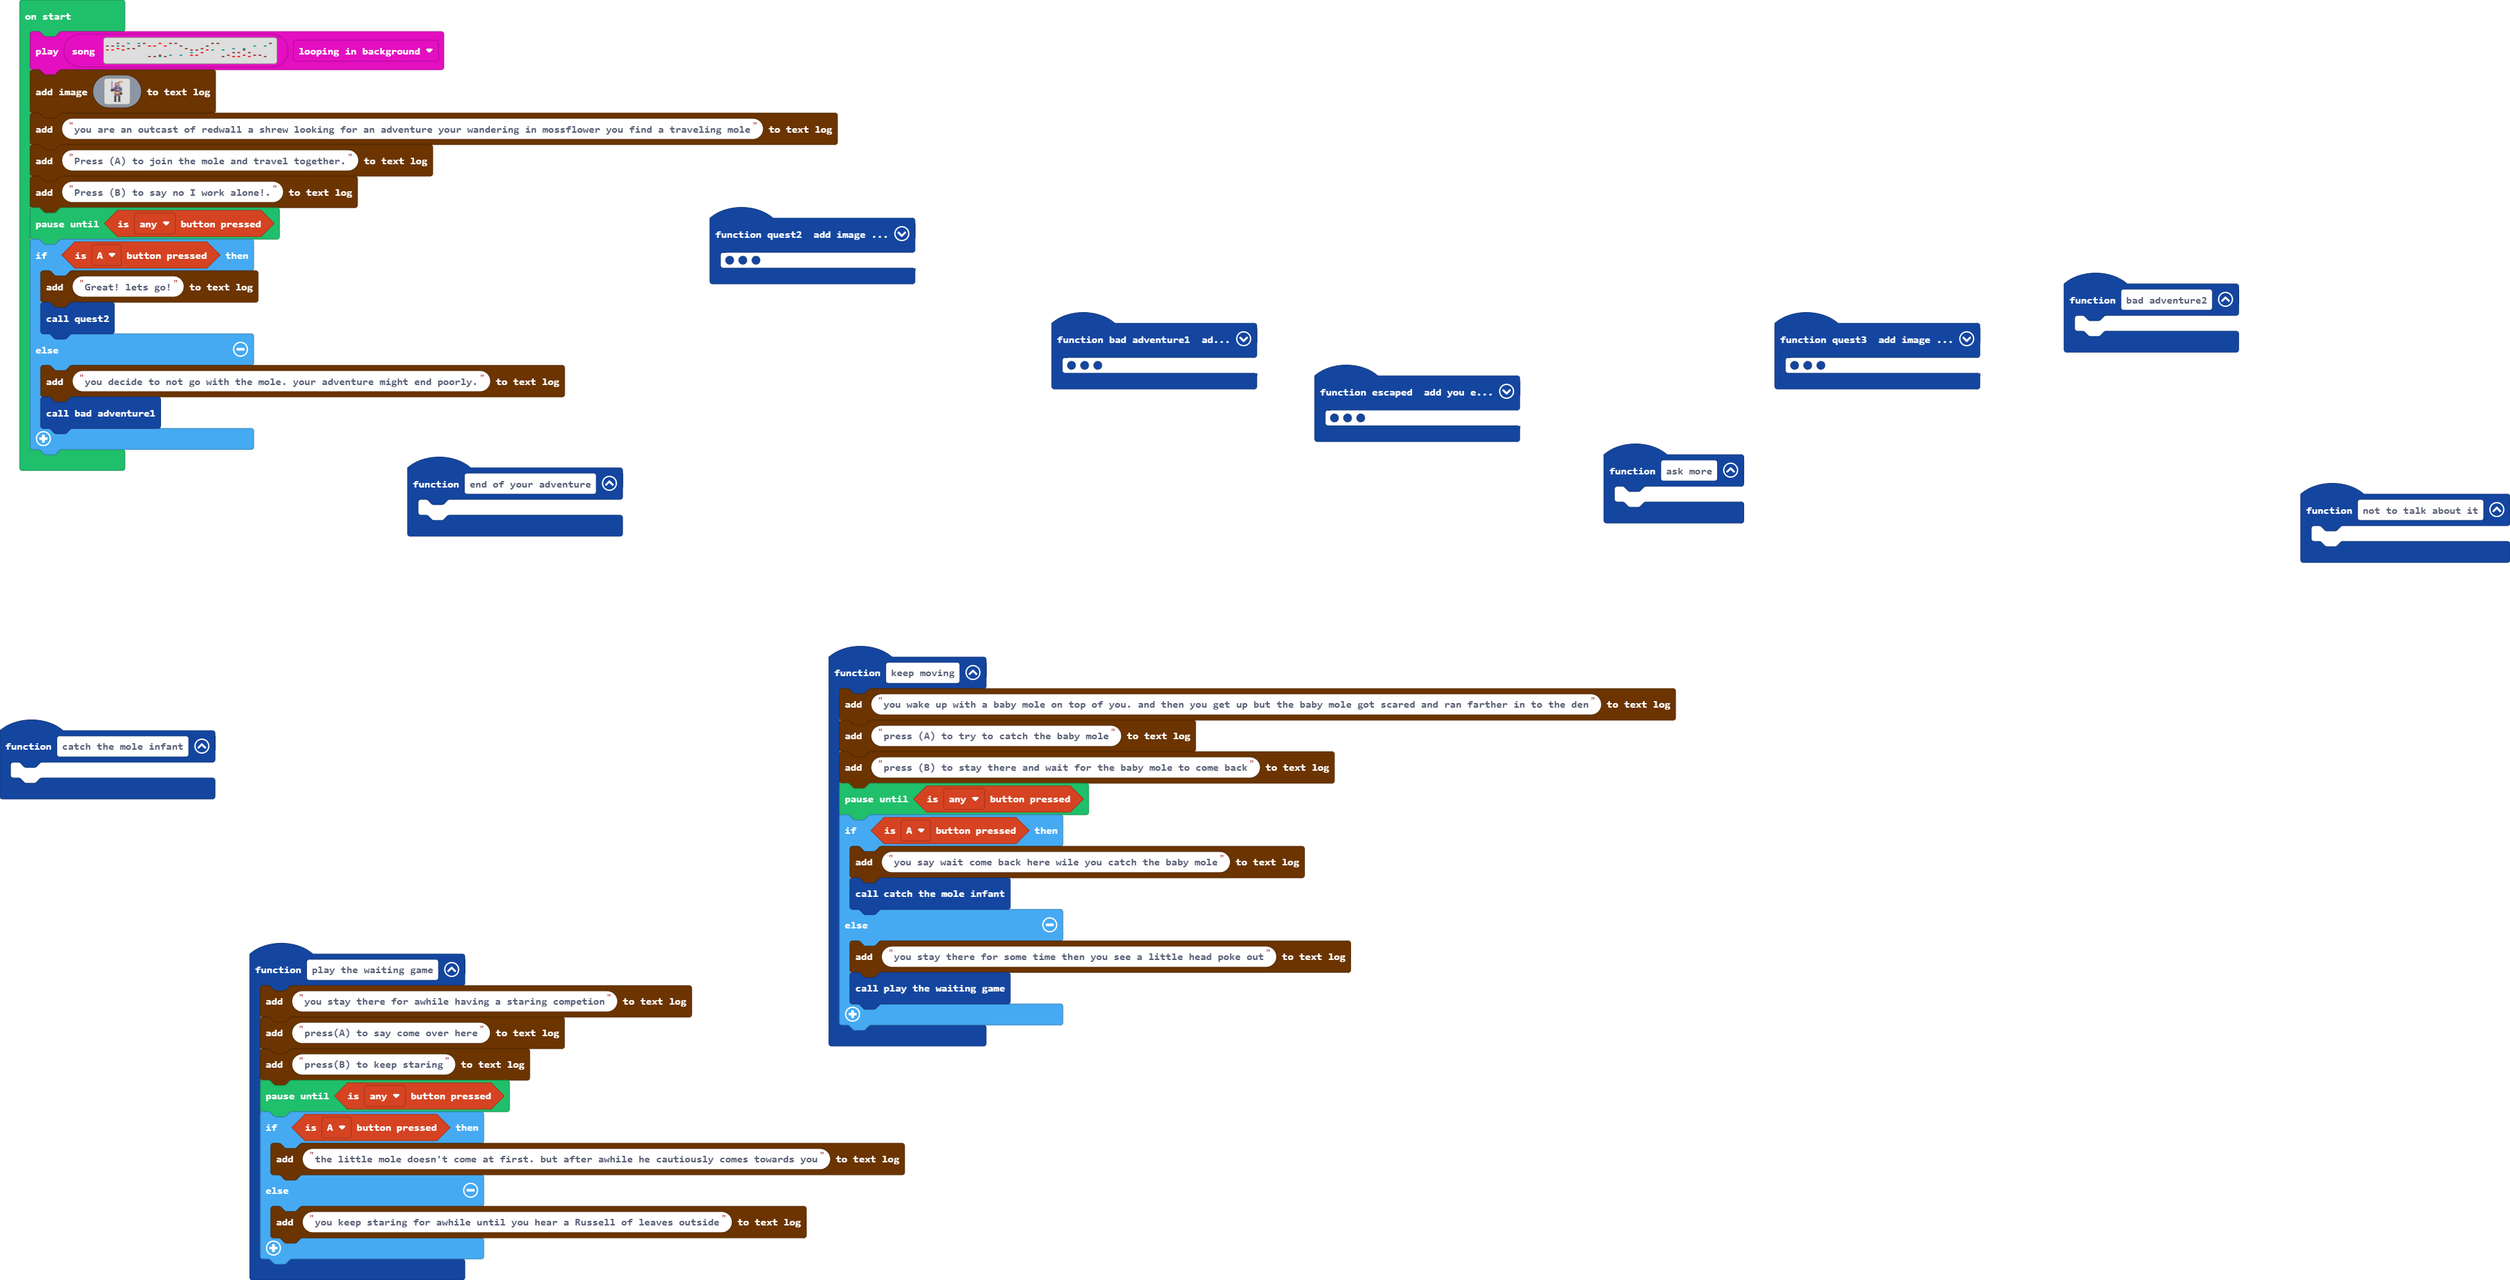
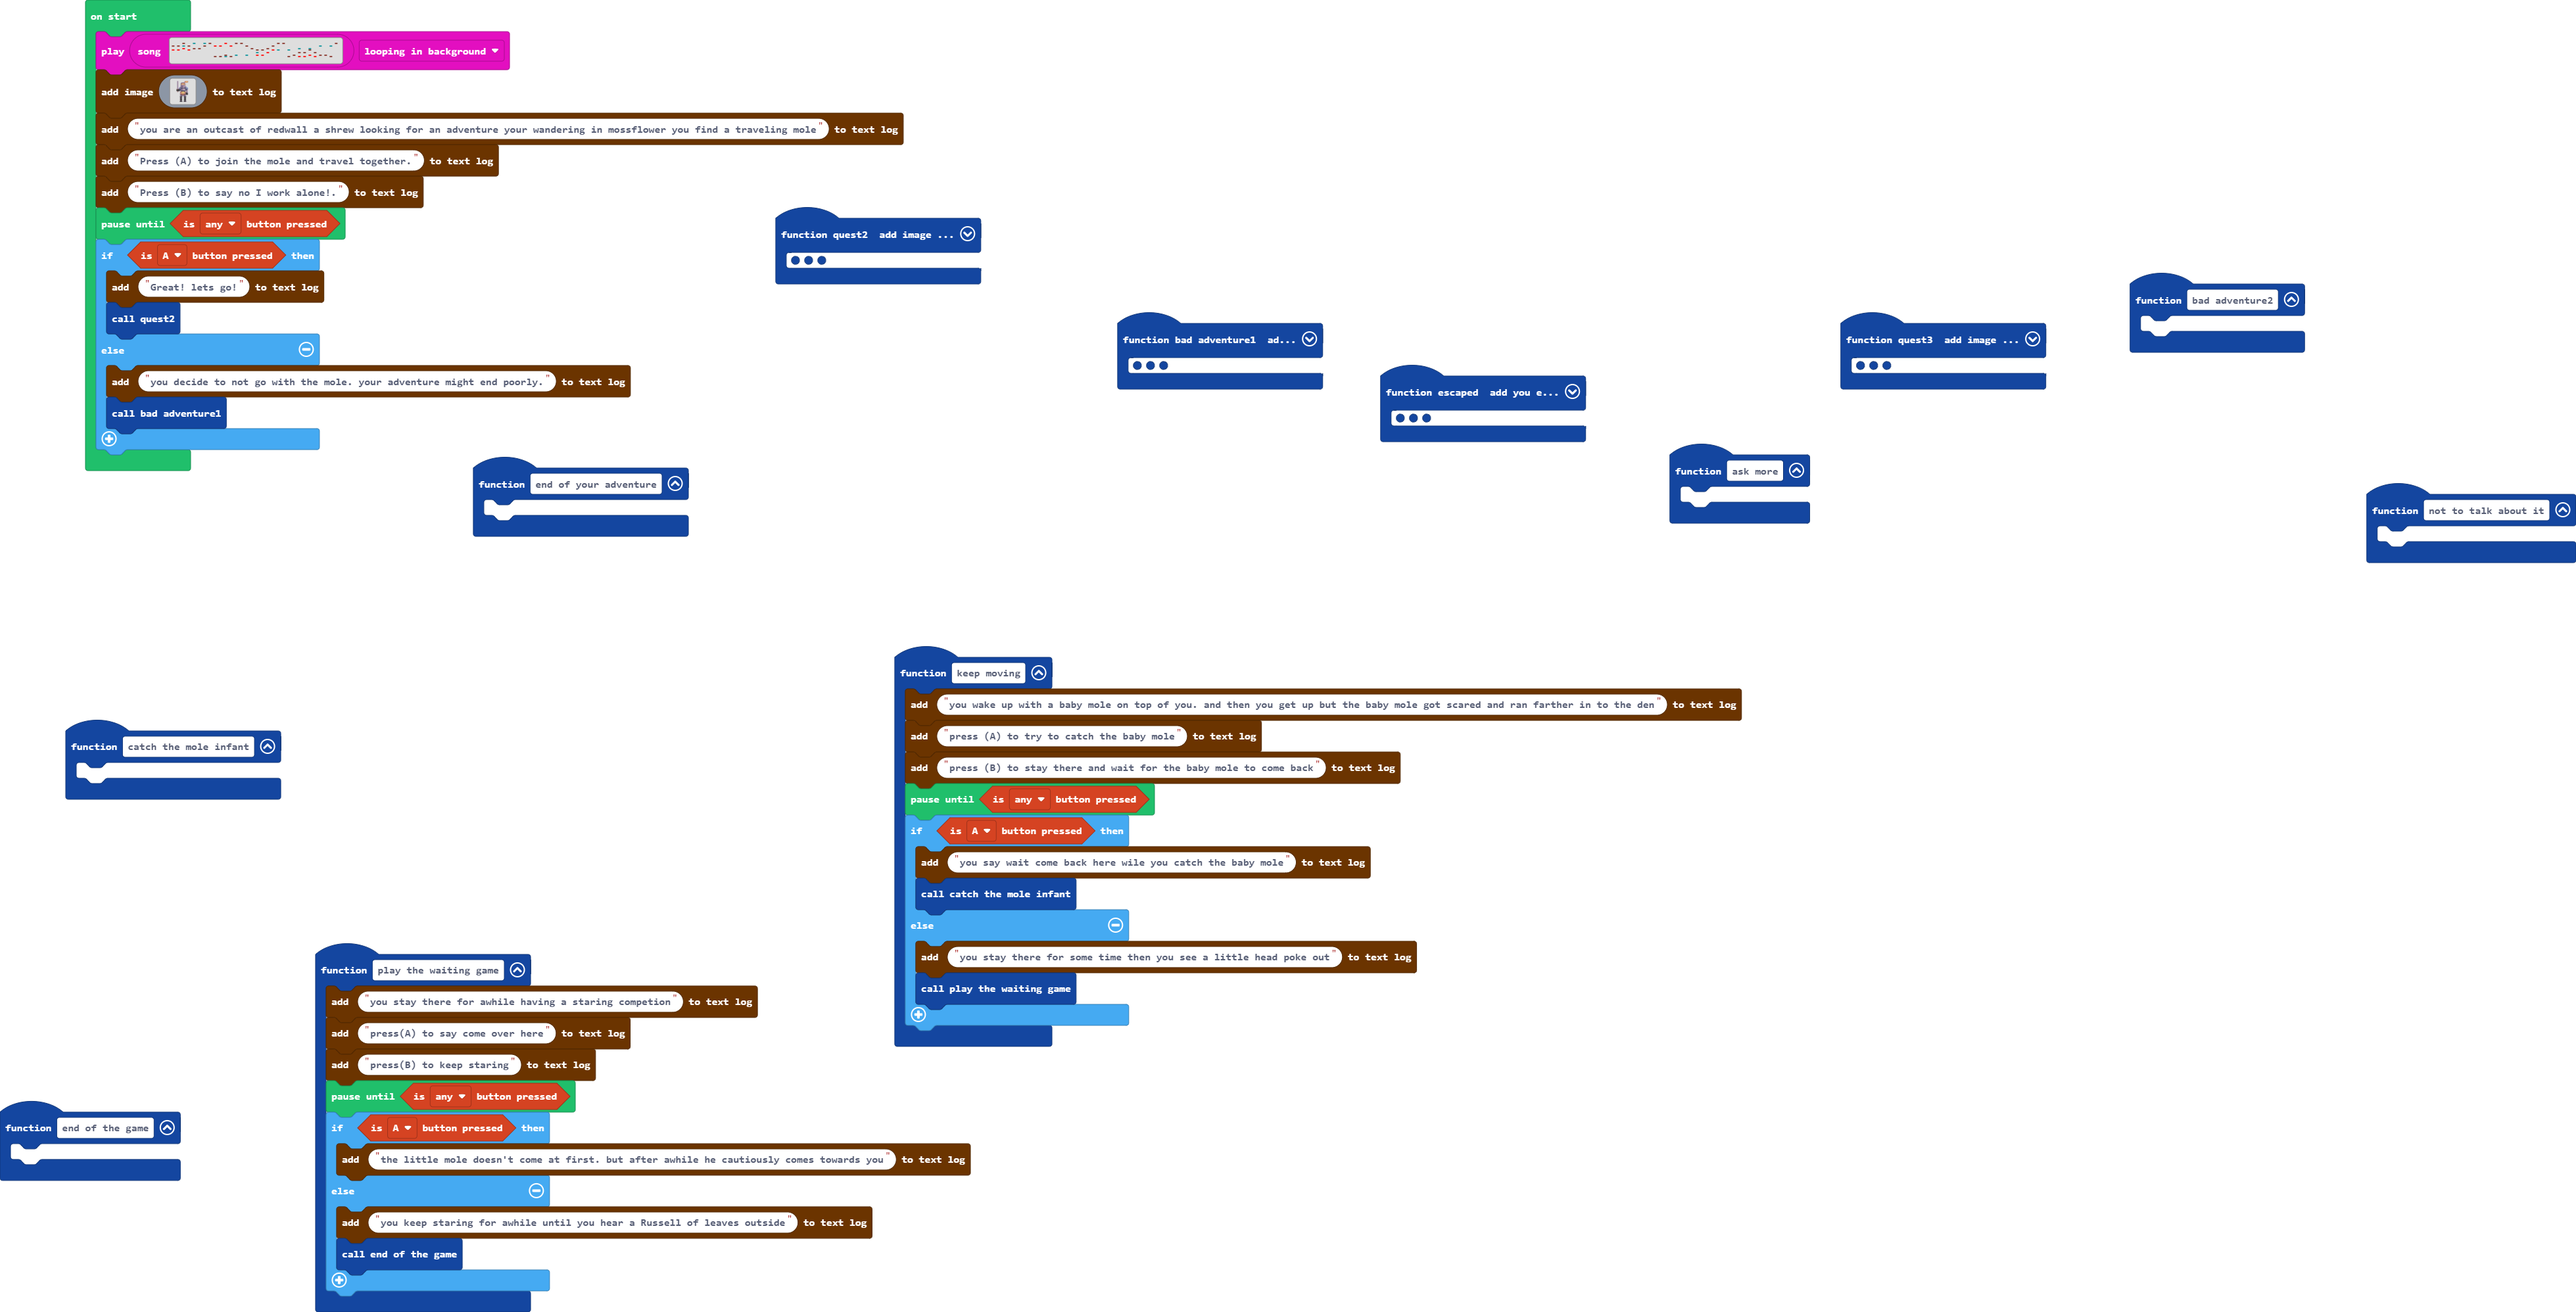
so small

diff --git a/main.ts b/main.ts
@@ -134,6 +134,9 @@ function catch_the_mole_infant () {
 function end_of_your_adventure () {
 	
 }
+function end_of_the_game () {
+	
+}
 function ask_more () {
 	
 }
@@ -172,6 +175,7 @@ function play_the_waiting_game () {
         adventure.addToTextlog("the little mole doesn't come at first. but after awhile he cautiously comes towards you")
     } else {
         adventure.addToTextlog("you keep staring for awhile until you hear a Russell of leaves outside")
+        end_of_the_game()
     }
 }
 function bad_adventure2 () {
